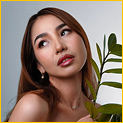
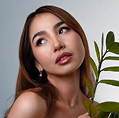
Reparo das cores da tela de profile/ Link entre home e outras páginas 28/07

diff --git a/app/tabs/Home.js b/app/tabs/Home.js
@@ -1,10 +1,21 @@
 import React, { useState } from "react";
-import { View, Text, TextInput, ScrollView, Image } from "react-native";
+import {
+  View,
+  Text,
+  TextInput,
+  ScrollView,
+  Image,
+  Dimensions,
+} from "react-native";
 import styles from "../../styles/HomeStyle";
 import Carrousel from "../../componentes/carrouselCard";
 import CarrouselPop from "../../componentes/carrouselPopular";
 import CarrouselCategorias from "../../componentes/carrouselCategorias";
 import { Link } from "expo-router";
+
+export const { width } = Dimensions.get("window");
+const widthTotal = Dimensions.get("screen").width;
+const heightTotal = Dimensions.get("screen").height;
 
 // ICONES
 import Bellicon from "../../assets/vectors/Bellicon";
@@ -21,6 +32,7 @@ const HomeScreen = () => {
       style={styles.container}
       contentContainerStyle={{ paddingBottom: 0, alignItems: "center" }}
     >
+      {/*PESQUISA */}
       <View style={styles.pesquisaContainer}>
         <View style={styles.inputPesquisa}>
           <Searchicon />
@@ -35,32 +47,40 @@ const HomeScreen = () => {
       </View>
 
       {/* Corpo da tela */}
+      {/*PRIMEIRO CARROUSEL  */}
       <View style={styles.body}>
         <View style={styles.view1}>
           <Text style={styles.text}>Nossas ferramentas</Text>
           <Carrousel />
         </View>
 
+        {/*Informações passoais  */}
         <View style={styles.viewcontrolPOSTS}>
-          <View style={styles.direita}>
+          <View style={styles.esquerda}>
             <Text style={styles.textotop}>Suas avaliações:</Text>
             <Text style={{ fontWeight: "bold" }}>3</Text>
           </View>
-          <View style={styles.centro}>
+          <Link href="/tabs/profile" style={{ alignItems: "center" }}>
+            <View style={styles.centro}>
               <Advertisingicon />
-              <Text style={styles.texto}>Ver perfil</Text>
-          </View>
-          <View style={styles.esquerda}>
+              <Text style={styles.texto}>Ver Perfil</Text>
+            </View>
+          </Link>
+
+          <Link href="/tabs/salvos" >
+          <View style={styles.direita}>
             <CreateAdicon />
             <Text style={styles.texto}>Editar anúncio</Text>
           </View>
+          </Link>
         </View>
 
+        {/*SEGUNDO CARROUSEL  */}
         <View style={styles.CarouselServicos}>
           <Text style={styles.text}>Serviços mais populares</Text>
           <CarrouselPop />
         </View>
-
+        {/*TERCEIRO CARROUSEL  */}
         <View style={styles.CarouselCategorias}>
           <Text style={styles.text}>Todas as categorias</Text>
           <CarrouselCategorias />

diff --git a/componentes/carrouselCard.jsx b/componentes/carrouselCard.jsx
@@ -1,12 +1,14 @@
+import { useNavigation } from "@react-navigation/native";
 import { useRef, useState } from "react";
 import {
   Dimensions,
   FlatList,
-  Image,
   StyleSheet,
   Text,
+  TouchableOpacity,
   View,
 } from "react-native";
+
 import Agendaicon from "../assets/vectors/Agendaicon";
 import Searchicon2 from "../assets/vectors/Searchicon2";
 // CONSTANTES
@@ -14,28 +16,33 @@ const { width } = Dimensions.get("screen");
 const heightTotal = Dimensions.get("screen").height;
 const data = [
   {
-    image: <Agendaicon/>,
+    image: <Agendaicon />,
     id: "1",
     title: "Agenda inteligente",
-    description: "Preencha sua agenda com seus horários disponíveis e combine horários com os profissionais",
+    description:
+      "Preencha sua agenda com seus horários disponíveis e combine horários com os profissionais",
+    screen: "agenda",
   },
- {
-    image: <Searchicon2/>,
+  {
+    image: <Searchicon2 />,
     id: "2",
     title: "Slide 2",
     description: "Descrição do slide 2",
-  },/* 
+    screen: "chat",
+  },
   {
-    image: require("../assets/images/logoprestador.png"),
+    image: <Searchicon2 />,
     id: "3",
     title: "Slide 3",
     description: "Descrição do slide 3",
-  },*/
+    screen: "salvos",
+  },
 ];
 
 const Carrousel = () => {
   const flatListRef = useRef(null);
   const [currentIndex, setCurrentIndex] = useState(0);
+  const navigation = useNavigation();
 
   const handleScroll = (event) => {
     const index = Math.round(event.nativeEvent.contentOffset.x / width);
@@ -44,18 +51,22 @@ const Carrousel = () => {
 
   const renderItem = ({ item }) => (
     <View style={styles.slide}>
-      <View style={styles.card}>
-        <View style={styles.imageContainer}>
-          {item.image}
-        </View>
+      <TouchableOpacity
+        style={styles.card}
+        activeOpacity={0.8}
+        onPress={() => navigation.navigate(item.screen)}
+      >
+        <View style={styles.card}>
+          <View style={styles.imageContainer}>{item.image}</View>
 
-        <View style={styles.textContainer}>
-          <Text style={styles.title}>{item.title}</Text>
-          {item.description && (
-            <Text style={styles.description}>{item.description}</Text>
-          )}
+          <View style={styles.textContainer}>
+            <Text style={styles.title}>{item.title}</Text>
+            {item.description && (
+              <Text style={styles.description}>{item.description}</Text>
+            )}
+          </View>
         </View>
-      </View>
+      </TouchableOpacity>
     </View>
   );
   return (

diff --git a/styles/HomeStyle.js b/styles/HomeStyle.js
@@ -11,7 +11,7 @@ export default StyleSheet.create({
     height: heightTotal * 0.6,
     width: widthTotal,
   },
-
+  /*PESQUISA */
   pesquisaContainer: {
     width: widthTotal,
     paddingHorizontal: 16,
@@ -64,10 +64,10 @@ export default StyleSheet.create({
     height: 30,
     resizeMode: "contain",
   },
-
+  /* Corpo da tela */
   body: {
-    height: heightTotal *0.9,
-    width: widthTotal ,
+    height: heightTotal * 0.9,
+    width: widthTotal,
     backgroundColor: "#fff",
     borderTopLeftRadius: 35,
     borderTopRightRadius: 35,
@@ -75,7 +75,7 @@ export default StyleSheet.create({
     paddingTop: 20,
     alignItems: "center",
   },
-
+  /*PRIMEIRO CARROUSEL  */
   view1: {
     width: width,
     backgroundColor: "#fff",
@@ -85,19 +85,19 @@ export default StyleSheet.create({
 
   text: {
     fontFamily: "Inter",
-    fontSize: 16,
+    fontSize: 17,
     fontWeight: "bold",
     color: "#36394A",
     marginBottom: 10,
     alignSelf: "flex-start",
     left: 20,
   },
-
+  /*Informações passoais  */
   viewcontrolPOSTS: {
     width: widthTotal * 0.8,
     flexDirection: "row",
     alignItems: "center",
-    justifyContent: "space-between",
+    justifyContent: "center",
     height: heightTotal * 0.1,
     borderStyle: "solid",
     borderColor: "#BFBFBF",
@@ -107,7 +107,7 @@ export default StyleSheet.create({
     marginBottom: 20,
   },
 
-  direita: {
+  esquerda: {
     alignItems: "center",
     justifyContent: "center",
     flex: 1,
@@ -118,12 +118,12 @@ export default StyleSheet.create({
   centro: {
     alignItems: "center",
     justifyContent: "center",
+    width: width * 0.25,
+    height: heightTotal * 0.085,
     flex: 1,
-    width: width * 0.3,
-    height: heightTotal * 0.09,
   },
 
-  esquerda: {
+  direita: {
     alignItems: "center",
     justifyContent: "center",
     flex: 1,
@@ -142,7 +142,7 @@ export default StyleSheet.create({
   texto: {
     textAlign: "center",
     color: "#666D80",
-    fontSize: 12,
+    fontSize: 11,
     marginTop: 5,
   },
 
@@ -152,13 +152,13 @@ export default StyleSheet.create({
     height: 22,
     resizeMode: "contain",
   },
-
+  /*SEGUNDO CARROUSEL  */
   CarouselServicos: {
     width: width,
     marginTop: 20,
     marginBottom: 0,
   },
-
+  /*TERCEIRO CARROUSEL  */
   CarouselCategorias: {
     width: width,
     marginTop: 20,

diff --git a/styles/ProfileStyles.js b/styles/ProfileStyles.js
@@ -50,7 +50,7 @@ export default StyleSheet.create({
   //VIEW PRINCIPAL DA TELA
   main: {
     display: "flex",
-    height: heightTotal ,
+    height: heightTotal,
     width: widthTotal,
     alignItems: "center",
   },
@@ -63,6 +63,14 @@ export default StyleSheet.create({
     alignItems: "flex-start",
     flexDirection: "row",
     marginTop: 40,
+  },
+  background: {
+    width: widthTotal * 0.26,
+    height: heightTotal * 0.125,
+    backgroundColor: "#A0CEE1",
+    alignContent: "center",
+    justifyContent: "center",
+    alignItems: "center",
   },
   profilePicture: {
     width: widthTotal * 0.25,
@@ -77,7 +85,7 @@ export default StyleSheet.create({
     contentFit: "contain",
   },
   circle: {
-    backgroundColor: "#FFC300",
+    backgroundColor: "#A0CEE1",
     width: 25,
     height: 25,
     justifyContent: "center",
@@ -146,7 +154,7 @@ export default StyleSheet.create({
     height: heightTotal * 0.05,
     alignItems: "flex-start",
     justifyContent: "center",
-    borderBottomColor: "#FFC100",
+    borderBottomColor: "#A0CEE1",
     borderWidth: 3,
     borderTopWidth: 0,
     borderLeftWidth: 0,

diff --git a/app/tabs/profile.js b/app/tabs/profile.js
@@ -41,11 +41,14 @@ export default function Profile() {
       <ScrollView style={styles.ScrollView}>
         <View style={styles.main}>
           <View style={styles.maininfos}>
-            <ImageBackground source={profilePic} style={styles.profilePicture}>
+            <View style={styles.background}>
+              <ImageBackground source={profilePic} style={styles.profilePicture}>
+            
               <View style={styles.circle}>
                 <ChangeImage />
               </View>
             </ImageBackground>
+            </View>
             <View style={styles.informations}>
               <View style={styles.Identification}>
                 <Text style={styles.Name}> LETÍCIA SOARES </Text>

diff --git a/app/_layout.js b/app/_layout.js
@@ -3,8 +3,8 @@ import { Stack } from "expo-router";
 export default function RootLayout() {
   return (
     <Stack>
-      <Stack.Screen name="introduction" options={{ headerShown: false }} />
       <Stack.Screen name="main" options={{ headerShown: false }} />
+      <Stack.Screen name="introduction" options={{ headerShown: false }} />
       <Stack.Screen name="forgotPassword" options={{ headerShown: true }} />
       <Stack.Screen name="forgotPasswordCode" options={{ headerShown: false }} />
       <Stack.Screen name="newPassword" options={{ headerShown: false }} />
